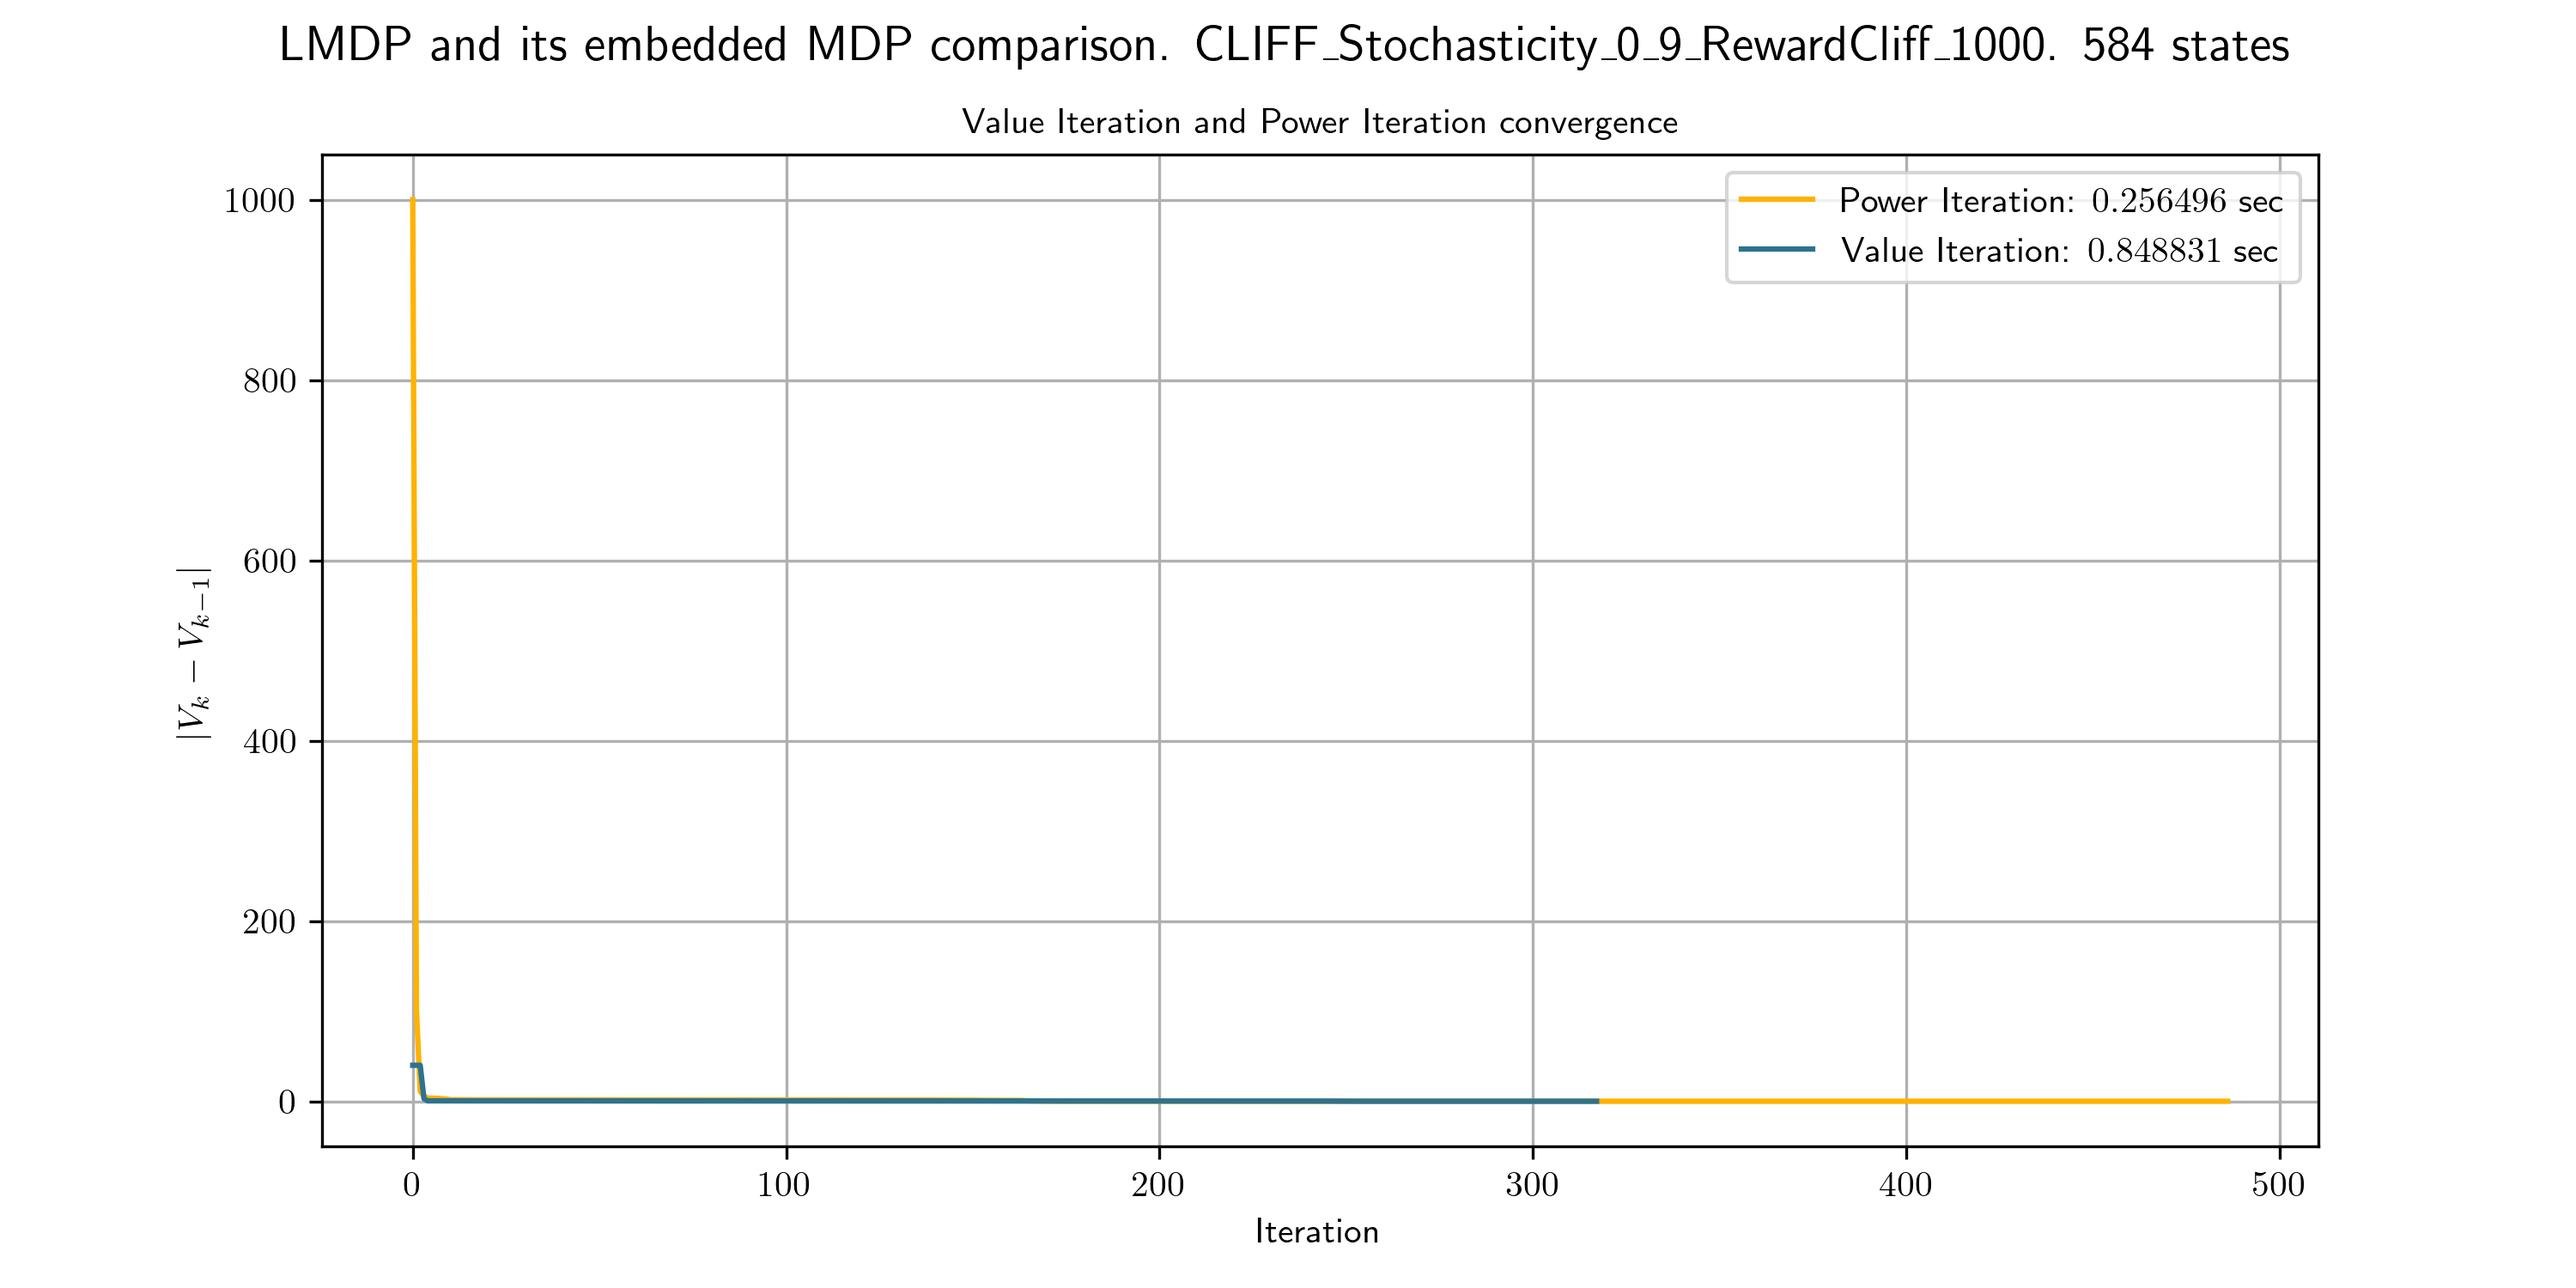
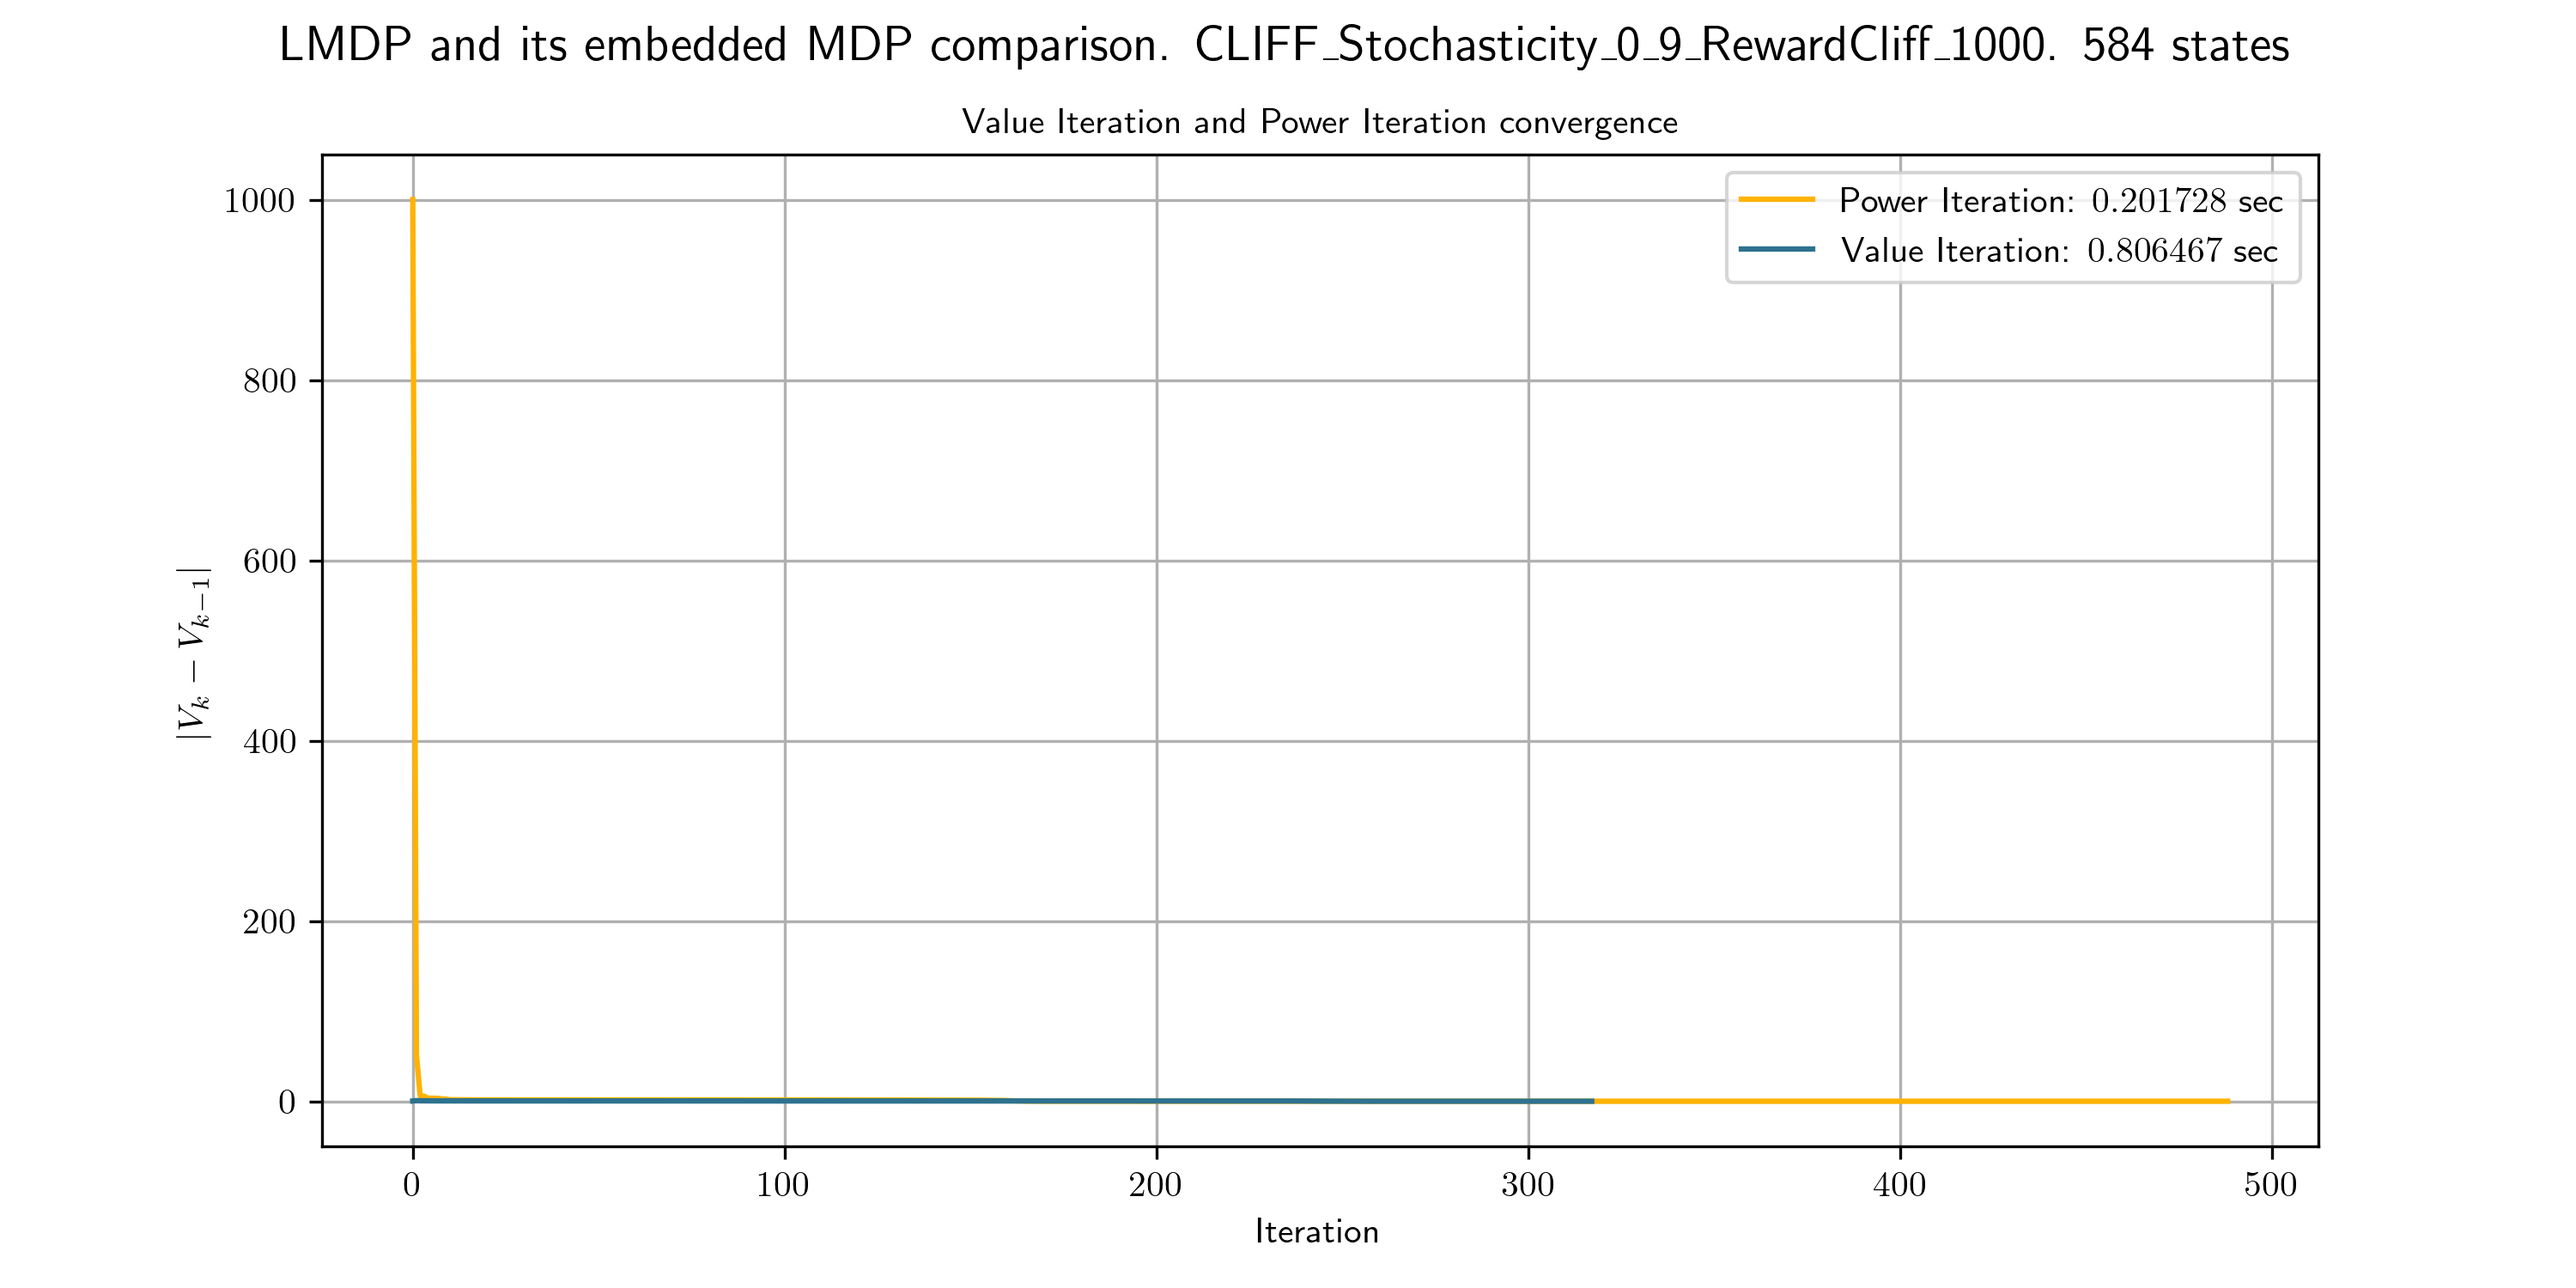
Solved issue with stochasticity in cliff states.
Changed policy of LMDP to be stochastic

diff --git a/models/MDP.py b/models/MDP.py
@@ -67,7 +67,7 @@ class MDP(ABC):
         
         # Initialize transition probabilities and rewards to zero
         self.P = np.zeros((self.num_non_terminal_states, self.num_actions, self.num_states))
-        self.R = np.zeros((self.num_states, self.num_actions))
+        self.R = np.zeros((self.num_states, self.num_actions), dtype=np.float64)
         
     
     
@@ -90,7 +90,10 @@ class MDP(ABC):
             for action in self.__alowed_actions:
                 # print(state, action)
                 if grid.is_cliff(grid.state_index_mapper[state]):
+                    # Cliff states always have the full probability to transition to the initial state, regardless of whether the model is stochastic, or deterministic
                     next_state = self.s0
+                    self.P[state, action, next_state] = 1
+                    continue
                 else:
                     next_state, _, terminal = move(pos[state], action)
                     # Convert from coordinate-like system (i, j) (grid format) to index based (idx) (matrix format)
@@ -103,7 +106,7 @@ class MDP(ABC):
                     self.P[state, action, next_state] = 1
                 else:
                     # Stochastic policy. With 90% take the correct action, with 10% uniformly take every other action
-                    prob_correct = 0.7
+                    prob_correct = 0.9
                     self.P[state, action, next_state] = prob_correct
                     other_actions = [a for a in self.__alowed_actions if a != action]
                     for new_action in other_actions:
@@ -280,74 +283,54 @@ class MDP(ABC):
             
         # return policy
     
-    
-    def log(self, message, verbose=False):
-        if verbose:
-            print(message)
         
     def to_LMDP(self):
-        self.log(f"Computing the LMDP embedding of this MDP...")
-        verbose=False
+        print(f"Computing the LMDP embedding of this MDP...")
         
         
         lmdp = models.LMDP.LMDP(
             num_states=self.num_states,
             num_terminal_states=self.num_terminal_states,
-            sparse_optimization=False
+            sparse_optimization=False,
+            lmbda=1
         )
         
-        if self.deterministic:
+        if self.deterministic and False:
             pass
             
         else:
             epsilon = 1e-10
             for state in range(self.num_non_terminal_states):
-                self.log(f"STATE: {state}", verbose=verbose)
+                print(f"STATE: {state}")
                 B = self.P[state, :, :]
                 zero_cols = np.all(B == 0, axis=0)
                 zero_cols_idx = np.where(zero_cols)[0]
-                self.log(B, verbose=verbose)
-                self.log(B.shape, verbose=verbose)
-                
-                self.log(f"zero cols: {zero_cols}", verbose=verbose)
-                self.log(f"zero cols idx: {zero_cols_idx}", verbose=verbose)
                 
                 # Remove 0 columns
-                self.log("Remove 0 columns", verbose=verbose)
                 B = B[:, ~zero_cols]
-                self.log(B, verbose=verbose)
-                self.log(B.shape, verbose=verbose)
                 
                 # If an element of B is zero, its entire column must be 0, otherwise, replace the problematic element by epsilon and renormalize
                 B[B == 0] = epsilon
                 B /= np.sum(B, axis=1).reshape(-1, 1)
-                self.log(B, verbose=verbose)
-                self.log(f"Rank of B: {np.linalg.matrix_rank(B)}", verbose=verbose)
                 
-                y = self.R[state] + np.sum(B * np.log(B), axis=1)
+                log_B = np.where(B != 0, np.log(B), B)
+                y = self.R[state] + np.sum(B * log_B, axis=1)
                 B_dagger = np.linalg.pinv(B)
-                self.log(f"Pseudoinverse shape: {B_dagger.shape}", verbose=verbose)
-                self.log(f"y shape: {y.shape}", verbose=verbose)
                 c = B_dagger @ y
-                self.log(f"B:\n{B_dagger}", verbose=verbose)
-                self.log(f"y:\n{y}", verbose=verbose)
-                self.log(f"c:\n{c}", verbose=verbose)
                 
-                R = np.log(np.sum(np.exp(c))) # TODO: ask whether to use c or -c
+                
+                R = np.log(np.sum(np.exp(c)))
                 x = c - R * np.ones(shape=c.shape)
-                self.log(f"R: {R}", verbose=verbose)
-                self.log(f"x: {x}", verbose=verbose)
                 lmdp.R[state] = R
                 lmdp.P[state, ~zero_cols] = np.exp(x)
+                
         
         lmdp.R[self.num_non_terminal_states:] = np.sum(self.R[self.num_non_terminal_states:], axis=1) / self.num_actions
-        
         z, _ = lmdp.power_iteration()
         V_lmdp = lmdp.get_value_function(z)
-        print(f"V LMDP:\n{V_lmdp}")
         self.compute_value_function()
         V_mdp = self.V
-        print(f"V MDP:\n{V_mdp}")
+        
         print("EMBEDDING ERROR:", np.mean(np.square(V_lmdp - V_mdp)))    
         return lmdp
 

diff --git a/main.py b/main.py
@@ -14,30 +14,41 @@ import pickle as pkl
 
 if __name__ == "__main__":
     # benchmark_parallel_p()
-    grid_size = 4
-    gridworld_mdp = MinigridMDP(
+    grid_size = 3
+    minigrid_mdp = MinigridMDP(
         grid_size=grid_size,
         allowed_actions=[
             MinigridActions.ROTATE_LEFT,
             MinigridActions.ROTATE_RIGHT,
             MinigridActions.FORWARD,
-            MinigridActions.PICKUP,
-            MinigridActions.DROP,
-            MinigridActions.TOGGLE,
+            # MinigridActions.PICKUP,
+            # MinigridActions.DROP,
+            # MinigridActions.TOGGLE,
         ],
-        map=Maps.CLIFF,
+        map=Maps.SIMPLE_TEST,
         # objects=Maps.CHALLENGE_DOOR_OBJECTS,
         deterministic=False
     )
-    stochastic = "0_7"
+    # minigrid_mdp.visualize_policy()
+    # for state in range(minigrid_mdp.num_states):
+    #     if minigrid_mdp.minigrid_env.custom_grid.is_cliff(minigrid_mdp.minigrid_env.custom_grid.state_index_mapper[state]):
+    #         print(state)
+    # print(minigrid_mdp.P[2, :, :])
+    # # minigrid_mdp.visualize_policy()
+    # print(minigrid_mdp.P[4, :, :])
+    embedded_lmdp = minigrid_mdp.to_LMDP()
     
-    # gridworld_mdp.visualize_policy(num_times=1, save_gif=False, save_path=f"assets/cliff_mdp_stochastic_{stochastic}.gif")
+    # print(embedded_lmdp.P[4, :])
+    
+    stochastic = "0_9"
+    
+    # # gridworld_mdp.visualize_policy(num_times=1, save_gif=False, save_path=f"assets/cliff_mdp_stochastic_{stochastic}.gif")
 
-    print(gridworld_mdp.P)
-    embedded_lmdp = gridworld_mdp.to_LMDP()
-    # print(f"Original R: {gridworld_mdp.R}")
-    # print(f"Embedded R: {embedded_lmdp.R}")
-    # print(embedded_lmdp.P)
+    # print(gridworld_mdp.P)
+    # embedded_lmdp = gridworld_mdp.to_LMDP()
+    # # print(f"Original R: {gridworld_mdp.R}")
+    # # print(f"Embedded R: {embedded_lmdp.R}")
+    # # print(embedded_lmdp.P)
     minigrid_lmdp = MinigridLMDP(
         grid_size=grid_size,
         allowed_actions=[
@@ -48,28 +59,30 @@ if __name__ == "__main__":
             # MinigridActions.DROP,
             # MinigridActions.TOGGLE,
         ],
-        map=Maps.CLIFF,
+        map=Maps.SIMPLE_TEST,
         # objects=Maps.DOUBLE_DOOR_OBJECTS,
         threads=4,
         sparse_optimization=True,
         lmdp=embedded_lmdp
     )
+    minigrid_lmdp.visualize_policy()
+    # print(minigrid_lmdp.R)
     
     # minigrid_lmdp.visualize_policy(num_times=1, save_gif=False, save_path=f"assets/cliff_lmdp_stochastic_{stochastic}.gif")
-    # print("LMDP", minigrid_lmdp.V)
+    # # print("LMDP", minigrid_lmdp.V)
     
-    benchmark_mdp2lmdp_embedding(
-        map=Maps.CLIFF,
-        name=f"CLIFF_Stochasticity_{stochastic}_RewardCliff_100",
-        allowed_actions=[
-            MinigridActions.ROTATE_LEFT,
-            MinigridActions.ROTATE_RIGHT,
-            MinigridActions.FORWARD,
-            # MinigridActions.PICKUP,
-            # MinigridActions.DROP,
-            # MinigridActions.TOGGLE,
-        ]
-    )
+    # benchmark_mdp2lmdp_embedding(
+    #     map=Maps.CLIFF,
+    #     name=f"CLIFF_Stochasticity_{stochastic}_RewardCliff_700",
+    #     allowed_actions=[
+    #         MinigridActions.ROTATE_LEFT,
+    #         MinigridActions.ROTATE_RIGHT,
+    #         MinigridActions.FORWARD,
+    #         # MinigridActions.PICKUP,
+    #         # MinigridActions.DROP,
+    #         # MinigridActions.TOGGLE,
+    #     ]
+    # )
 
     # gridworld_mdp.compute_value_function()
     # print(gridworld_mdp.policy)

diff --git a/domains/minigrid_env.py b/domains/minigrid_env.py
@@ -188,7 +188,8 @@ class CustomMinigridEnv(MiniGridEnv):
                             # print(f"Next_state idx {next_state}, {np.where(model.P[state_idx, policy[state_idx], :] != 0)}, {model.P[state_idx, policy[state_idx], np.where(model.P[state_idx, policy[state_idx], :] != 0)[0]]}")
                             
                     else:
-                        next_state = policy[state_idx]
+                        next_state = np.random.choice(self.custom_grid.get_num_states(), p=policy[state_idx])
+                        print(f"State: {state_idx}, probs: {policy[state_idx]}")
                         action = model.transition_action(state_idx, next_state)
                     
                     next_state, _, _ = model.move(state, action)
@@ -418,6 +419,7 @@ class MinigridMDP(MDP):
         for state in range(self.num_non_terminal_states):
             state_repr = self.minigrid_env.custom_grid.states[state]
             if self.minigrid_env.custom_grid.is_cliff(state_repr):
+                # For precision purposes, do not use rewards non strictily lower than np.log(np.finfo(np.float64).tiny) = -708
                 self.R[state] = np.full(shape=self.num_actions, fill_value=-100, dtype=np.float64)
             else:
                 self.R[state] = np.full(shape=self.num_actions, fill_value=-1, dtype=np.float64)
@@ -631,9 +633,10 @@ class MinigridLMDP(LMDP):
         for state in range(self.num_non_terminal_states):
             state_repr = self.minigrid_env.custom_grid.states[state]
             if self.minigrid_env.custom_grid.is_cliff(state_repr):
-                self.R[state] = -10
+                # For precision purposes, ensure that reward / self.lmbda is greater than np.log(np.finfo(np.float64).tiny) = -708
+                self.R[state] = np.float64(-10)
             else:
-                self.R[state] = -1
+                self.R[state] = np.float64(-1)
 
 
 

diff --git a/models/LMDP.py b/models/LMDP.py
@@ -47,7 +47,7 @@ class LMDP:
         self.sparse_optimization = sparse_optimization
         
         self.P: np.ndarray | csr_matrix = np.zeros((self.num_non_terminal_states, self.num_states))
-        self.R = np.zeros(self.num_states)
+        self.R = np.zeros(self.num_states, dtype=np.float64)
         
     
     
@@ -162,27 +162,17 @@ class LMDP:
         return control
         
     
-    def get_optimal_policy(self, z: np.ndarray, multiple_states: bool = False) -> np.ndarray:
+    def get_optimal_policy(self, z: np.ndarray) -> np.ndarray:
         """
         Compute the optimal policy based on the control matrix.
 
         Args:
         - z (np.ndarray): The transfomed value function vector.
-        - multiple_states (bool): Whether to allow multiple optimal states (default is False).
 
         Returns:
         - policy (np.ndarray): The optimal policy.
         """
-        policy = np.zeros(self.num_states, dtype=object)
-        probs = self.get_control(z)
-        
-        if multiple_states:
-            for i in range(probs.shape[0]):        
-                policy[i] = [j for j in range(len(probs[i, :])) if probs[i, j] == np.max(probs[i, :])]  
-        else:
-            policy = probs.argmax(axis=1)
-        
-        return policy
+        return self.get_control(z)
         
     
     def transition_action(self, state: int, next_state: list[int]) -> list[int]:
@@ -252,6 +242,7 @@ class LMDP:
             z = self.z
         
         result = np.log(z) * self.lmbda
+        result[result == -np.inf] = np.finfo(np.float64).min
         
         return result
     
@@ -267,7 +258,6 @@ class LMDP:
         self.V = self.get_value_function()
         
         self.policy = self.get_optimal_policy(self.z)
-        # self.policy_multiple_states = self.get_optimal_policy(self.z, multiple_states=True)
         
     
     def to_MDP(self):

diff --git a/utils/maps.py b/utils/maps.py
@@ -3,7 +3,7 @@ from .state import Object
 class Maps:
     SIMPLE_TEST = [
     "####",
-    "#S #",
+    "#SC#",
     "# G#",
     "####"
     ]
